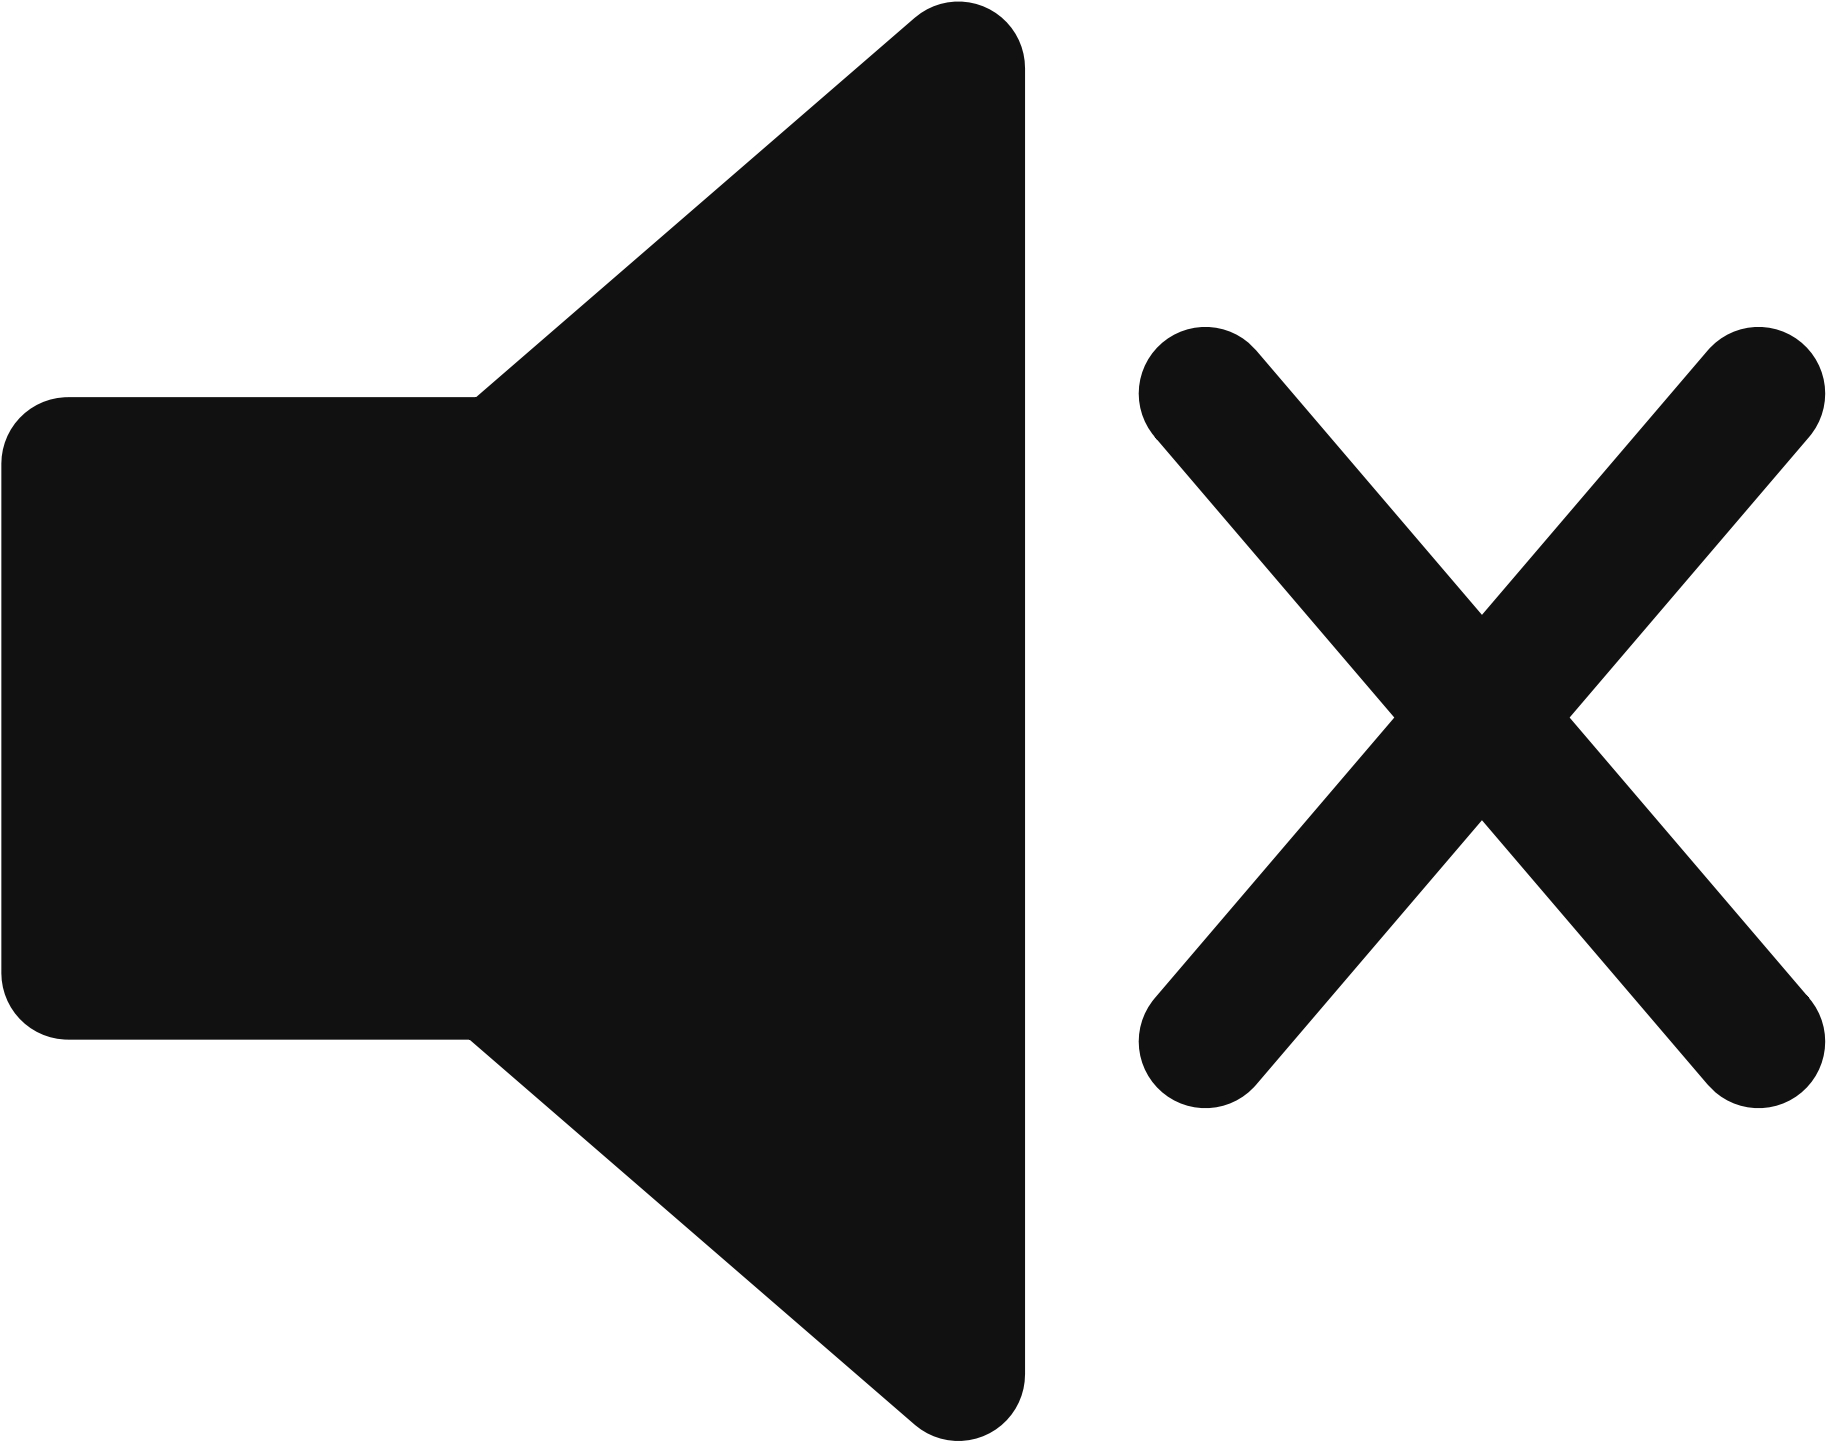
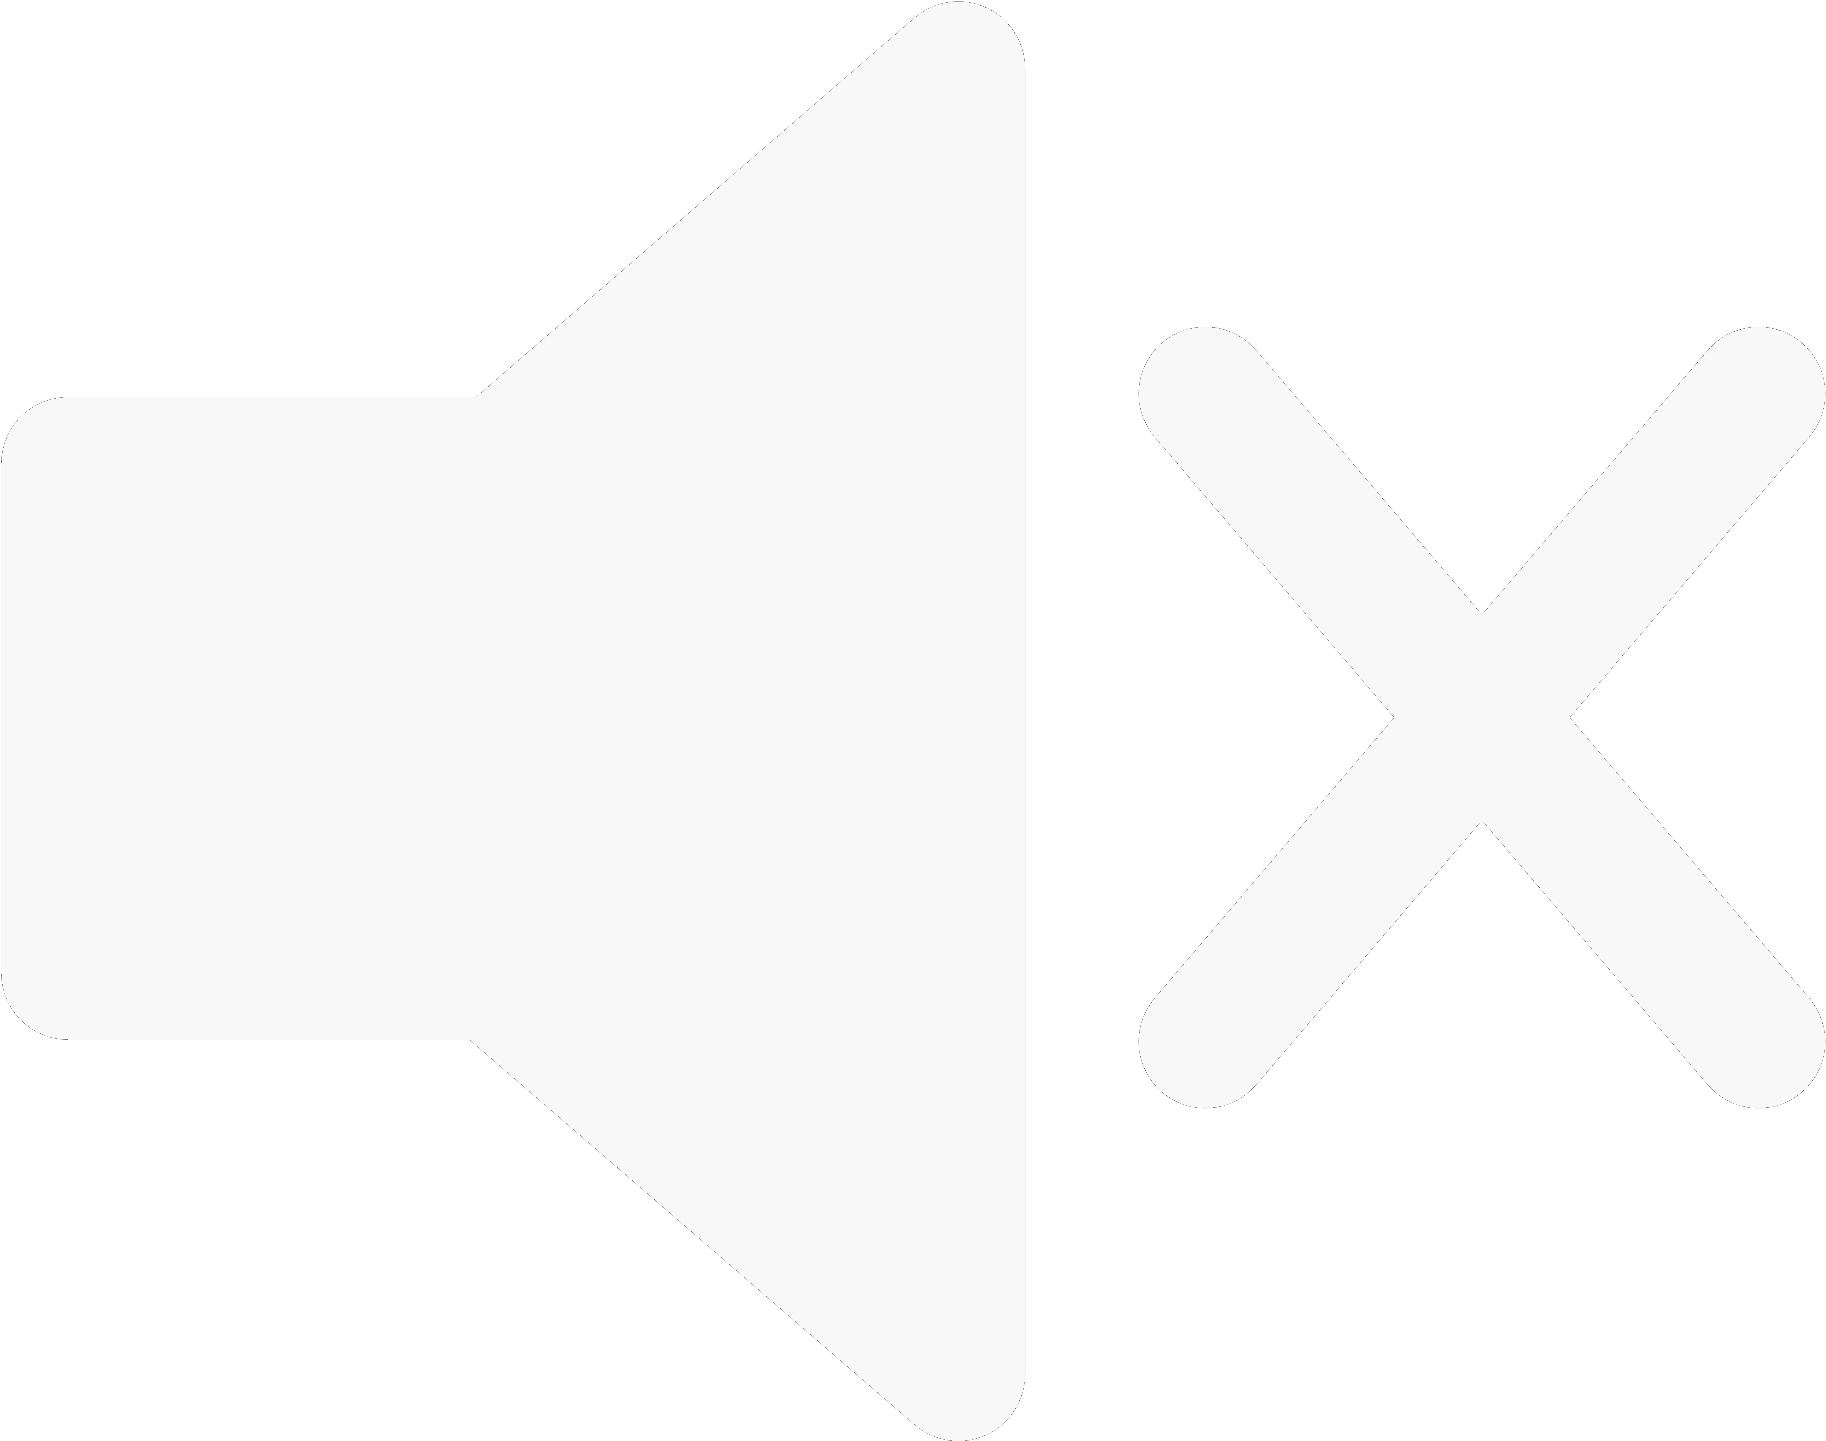
changed login mute button position and colour

diff --git a/src/components/Login.jsx b/src/components/Login.jsx
@@ -46,33 +46,37 @@ const Login = (props) => {
   }
 
   return (
-    <div className="login-screen">
-      <div className="login-page">
-        <form onSubmit={handleSubmit}>
-          <div className="form-group">
-            <img className="bounce" src={Logo} alt="Logo" />
-            <h5>CONCENTRATION CHALLENGE</h5>
-            <label>ENTER YOUR NAME</label>
-            <br />
-            <input type="text" onChange={handleChange} pattern="[a-zA-Z]+" minLength="2" maxLength="7"/>
-          </div>
-          <button className='btn btn-warning'>
-            START
-          </button>
-          <img
-            className="mute-login"
-            onClick={muteAudio}
-            src={audioIconToggle()}
-            alt="Mute/Unmute Icon"
-          />
-        </form>
+    <div className="login-wrapper">
+      <div className="login-mute-container">
+        <img
+          className="login-mute-btn"
+          onClick={muteAudio}
+          src={audioIconToggle()}
+          alt="Mute/Unmute Icon"
+        />
       </div>
-      <div className="login-instructions">
-        <div className="instructions">
-          <h1>INSTRUCTIONS</h1>
-          <img src={Instructions} alt="Banjo and Kazooie" />
-          <p>GRUNTY'S BACK! HELP EVERYONE'S FAVOURITE BEAR AND BIRD COMPLETE GRUNTILDA'S CONCENTRATION CHALLENGE.</p>
-          <p>YOU'LL HAVE A NUMBER OF ATTEMPTS TO TRY AND PAIR UP ALL THE MATCHING CARDS, BUT BE CAREFUL BECAUSE IF THE NUMBER REACHES 0, IT'S GAME OVER!</p>
+      <div className="login-screen">
+        <div className="login-page">
+          <form onSubmit={handleSubmit}>
+            <div className="form-group">
+              <img className="bounce" src={Logo} alt="Logo" />
+              <h5>CONCENTRATION CHALLENGE</h5>
+              <label>ENTER YOUR NAME</label>
+              <br />
+              <input type="text" onChange={handleChange} pattern="[a-zA-Z]+" minLength="2" maxLength="7"/>
+            </div>
+            <button className='btn btn-warning'>
+              START
+            </button>
+          </form>
+        </div>
+        <div className="login-instructions">
+          <div className="instructions">
+            <h1>INSTRUCTIONS</h1>
+            <img src={Instructions} alt="Banjo and Kazooie" />
+            <p>GRUNTY'S BACK! HELP EVERYONE'S FAVOURITE BEAR AND BIRD COMPLETE GRUNTILDA'S CONCENTRATION CHALLENGE.</p>
+            <p>YOU'LL HAVE A NUMBER OF ATTEMPTS TO TRY AND PAIR UP ALL THE MATCHING CARDS, BUT BE CAREFUL BECAUSE IF THE NUMBER REACHES 0, IT'S GAME OVER!</p>
+          </div>
         </div>
       </div>
     </div>

diff --git a/src/assets/stylesheets/application.scss b/src/assets/stylesheets/application.scss
@@ -62,7 +62,7 @@ body {
 .login-screen {
   display: flex;
   align-items: center;
-  height: 630px;
+  height: 600px;
   .login-page {
     flex: 1;
     display: flex;
@@ -91,10 +91,6 @@ body {
         margin: 16px;
         border-radius: 8px !important;
       }
-      .mute-login {
-        height: 16px;
-        cursor: pointer;
-      }
       img {
         height: 100px;
         animation-duration: 3s;
@@ -105,26 +101,37 @@ body {
 }
 
 
-
-.login-instructions {
-  flex: 1;
-  display: flex;
-  justify-content: center;
-  .instructions {
-    background-color: rgba(0, 0, 0, 0.7);
-    border-radius: 50px;
-    width: 500px;
-    padding: 16px 32px 16px 32px;
-    // margin: 0 32px 0 32px;
-    box-shadow: 0px 0px 8px 8px rgba(0, 0, 0, 0.7);
-    text-align: center;
-    color: $white;
-    p {
-      margin: 16px 0 0 0;
-      font-size: 16px;
+.login-wrapper {
+  .login-mute-container {
+    text-align: end;
+    margin: 32px 32px 0 32px;
+    .login-mute-btn {
+      height: 24px;
+      cursor: pointer;
     }
-    img {
-      width: 200px;
+  }
+  .login-instructions {
+    flex: 1;
+    display: flex;
+    flex-direction: column;
+    align-items: center;
+    justify-content: center;
+    .instructions {
+      background-color: rgba(0, 0, 0, 0.7);
+      border-radius: 50px;
+      width: 500px;
+      padding: 16px 32px 16px 32px;
+      // margin: 0 32px 0 32px;
+      box-shadow: 0px 0px 8px 8px rgba(0, 0, 0, 0.7);
+      text-align: center;
+      color: $white;
+      p {
+        margin: 16px 0 0 0;
+        font-size: 16px;
+      }
+      img {
+        width: 200px;
+      }
     }
   }
 }
@@ -266,7 +273,6 @@ input[type=text] {
     .mute-game {
       height: 24px;
       cursor: pointer;
-      transition: 0.5s;
     }
   }
 }

diff --git a/src/components/Game.jsx b/src/components/Game.jsx
@@ -4,15 +4,14 @@ import Images from './Images'
 
 // Image imports //
 import Logo from './images/Logo.png';
-import MuteImg from './images/MuteWhite.png';
-import UnmuteImg from './images/UnmuteWhite.png';
+import MuteImg from './images/Mute.png';
+import UnmuteImg from './images/Unmute.png';
 
 const Game = (props) => {
   const { gameMusic, playerName, calculateScore, score, restartScore } = props;
   const [ showEndGame, setShowEndGame ] = useState(false);
   const [ audioOn, setAudioOn ] = useState(true);
   const [ imagesKey, setImagesKey ] = useState(10);
-  // const [ startNewGame, setStartNewGame ] = useState(false);
 
   const handleEndGame = (boolean) => {
     setShowEndGame(boolean)
@@ -25,7 +24,6 @@ const Game = (props) => {
     gameMusic.play()
     restartScore()
     setImagesKey(imagesKey - 1)
-    // setStartNewGame(!setStartNewGame)
   }
 
   const muteAudio = () => {
@@ -50,7 +48,6 @@ const Game = (props) => {
           handleEndGame={handleEndGame}
           calculateScore={calculateScore}
           score={score}
-          // startNewGame={startNewGame}
         />
       <div className="game-right">
         <div className="game-right-mute-btn">
